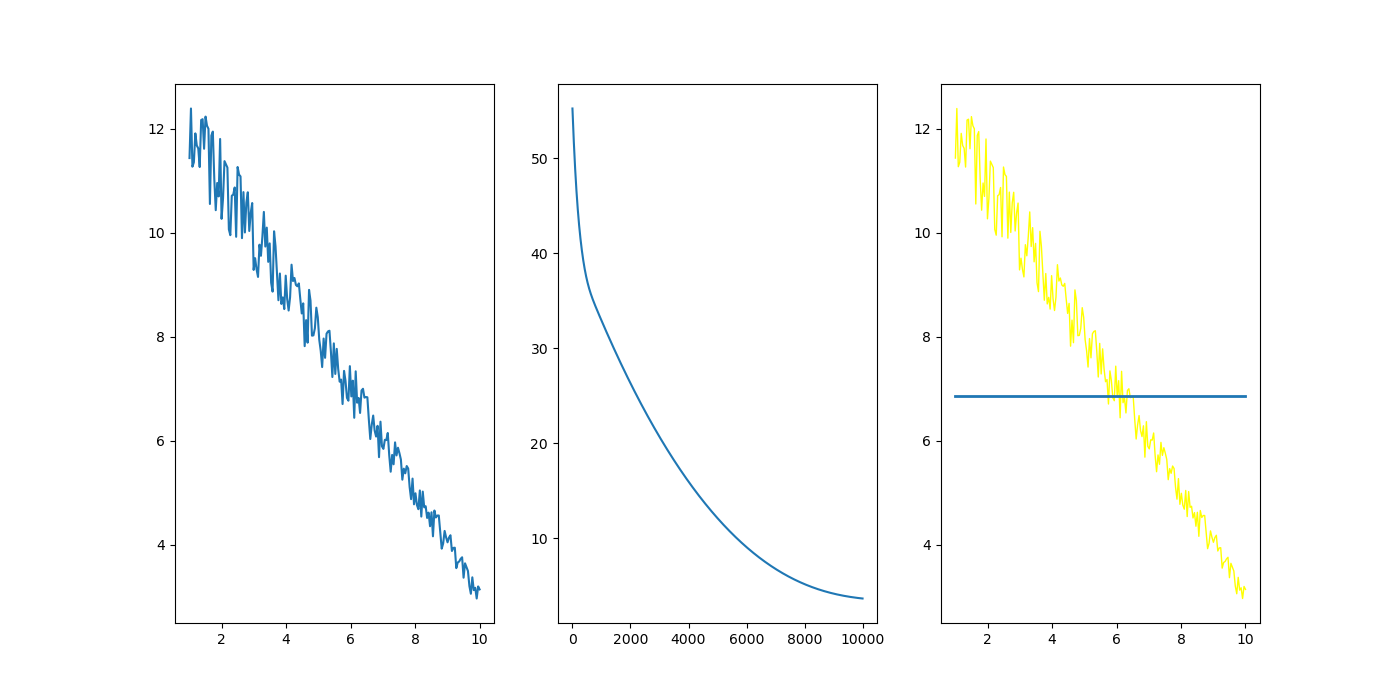
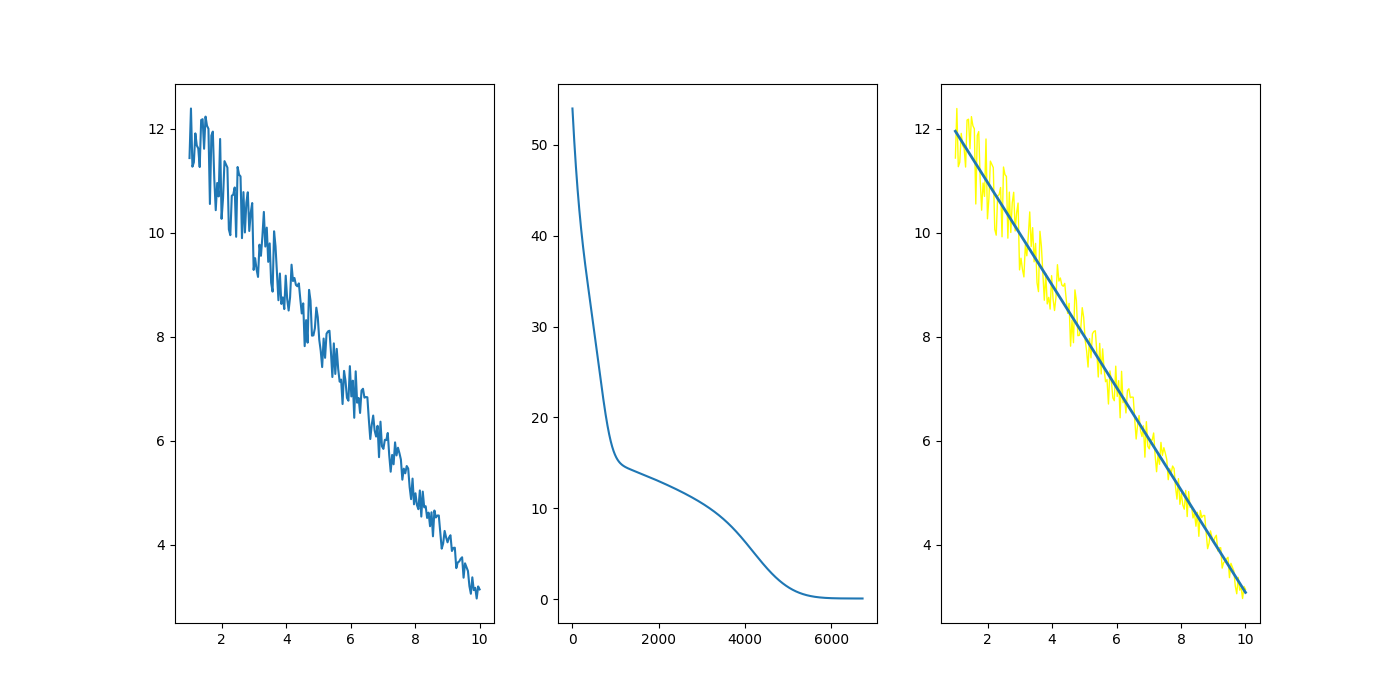
complete testes simulations

diff --git a/main.py b/main.py
@@ -1,24 +1,41 @@
+import math
+
 import numpy as np
 import matplotlib.pyplot as plt
 from sklearn.neural_network import MLPRegressor
 
+# regr = MLPRegressor(
+#    hidden_layer_sizes=(2), #sim 2
+#    max_iter=8000,
+#    activation='relu', #{'identity', 'logistic', 'tanh', 'relu'},
+#    solver='adam',
+#    learning_rate='adaptive',
+#    n_iter_no_change=600
+# )
+
+regr1 = MLPRegressor(hidden_layer_sizes=(4,2),max_iter=12000,activation='relu',solver='adam',learning_rate='adaptive',n_iter_no_change=600)
+
+regr2 = MLPRegressor(hidden_layer_sizes=(6,4,3),max_iter=16000,activation='relu',solver='adam',learning_rate='adaptive',n_iter_no_change=800)
+
+regr3 = MLPRegressor(hidden_layer_sizes=(8,4,2),max_iter=22000,activation='relu',solver='adam',learning_rate='adaptive',n_iter_no_change=1000)
+
+regr = regr3
+
 print('Carregando Arquivo de teste')
-arquivo = np.load('teste2.npy')
+
+arquivo = np.load('./data/teste5.npy')
+
 x = arquivo[0]
 y = np.ravel(arquivo[1])
 
-regr = MLPRegressor(hidden_layer_sizes=(4,2), #sim 2
-                    max_iter=12000,
-                    activation='relu', #{'identity', 'logistic', 'tanh', 'relu'},
-                    solver='adam',
-                    learning_rate = 'adaptive',
-                    n_iter_no_change=800)
-                
 media = 0
+erros = []
+
 for i in range(10):
     # print('Treinando RNA')
     regr = regr.fit(x,y)
     
+    erros.append(regr.best_loss_)
     media += regr.best_loss_
 
     # print('Preditor')
@@ -40,8 +57,18 @@ for i in range(10):
     plt.plot(x,y_est,linewidth=2)
 
     #plt.show()
-    plt.savefig(f'./imagens/teste3/sim1/E{i+1}.png')
+    plt.savefig(f'./imagens/teste5/sim3/E{i+1}.png')
 
 media = media / 10
 
+variancia = 0
+
+for i in erros:
+    variancia += math.pow(i-media, 2)
+
+desvio = math.sqrt(variancia/10)
+
+print("media: ", end=" ")
 print(media)
+print("desvio: ", end=" ")
+print(desvio)
